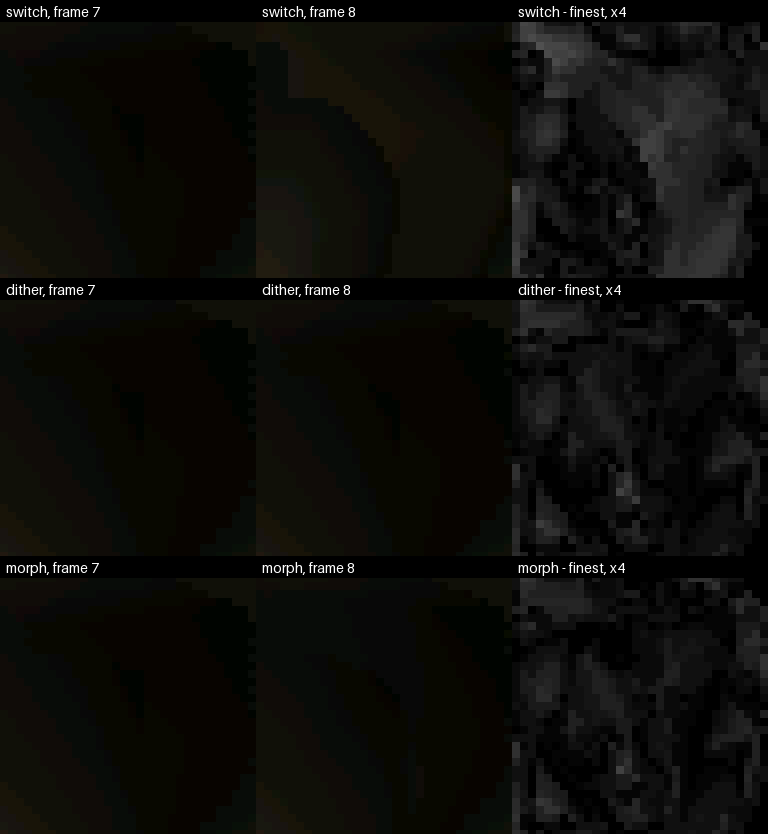
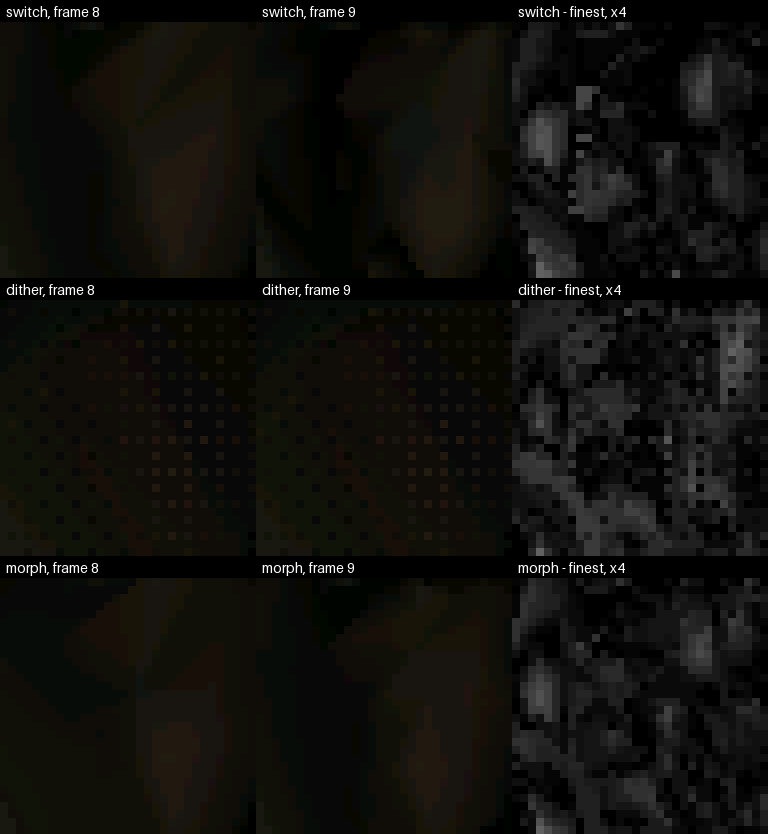
render: the meshlets view numbers a kept copy by its own clusters (autana-1mrt0) (#1508)
* render: the meshlets view numbers a kept copy by its own clusters, not the instance slot past the list (autana-1mrt0)

* render: attachment writers name their argument a drawn-list entry (autana-1mrt0 review)

* tools: the scene host programs build and run on the scene sources since #1448 and #1486: stub headers, the app heap entered, r3d_batch.c linked (autana-1mrt0)

skin_sheet.py and playback_figures.py build engine scene code on the host. Since #1448 that code includes esp_log.h and takes its blocks from the app heap, and since #1486 it calls r3d_batch.c; the doc-image refresh, their only caller, stopped at the first. scene_host.py now hands its users the flags its sources need, both hosts enter the app arena as render_host does, and test_scene_host.py builds and runs them in the tool tests.

* docs images: Doc Images makes the producers that need the bake cache too; the LOD blend clip and still redrawn on the re-keyed fits (autana-1mrt0)

lod_blend_pop.py needs host and bakes, and the refresh built only host producers, so its two images, committed before the #1493 rebake, were orphans. The CPU job already fetches bakes; it now builds them, and the clip and still are its render on the fits main locks (the worst pop moves from frame 7-8 to 8-9).

diff --git a/launcher/test/suites/suite_raster_attachment.c b/launcher/test/suites/suite_raster_attachment.c
@@ -493,6 +493,35 @@ test_copies_take_their_first_instance_and_each_shape_its_own_id(void) {
     free(raster.scratch);
 }
 
+/* A kept copy is entry instance_count onward of the drawn list, past the
+ * instances: its meshlets number by its own mesh's clusters. The slot past
+ * the instances holds another mesh, so reading it instead shows. */
+static void
+test_a_kept_copy_numbers_its_meshlets_by_its_own_clusters(void) {
+    static const r3d_lit_mesh_t placed = {.cluster_count = 2};
+    static const r3d_lit_mesh_t copied = {.cluster_count = 3};
+    static const r3d_lit_mesh_t past = {.cluster_count = 7};
+    const r3d_instance_t instances[] = {{.mesh = &placed}, {.mesh = &past}};
+    raster_t raster = {.instances = instances, .instance_count = 1};
+    raster.scratch =
+        malloc(raster_culled_bytes_of((raster_lengths_t){.copies = 1, .culled = raster_lengths(&raster).culled}));
+    TEST_ASSERT_NOT_NULL(raster.scratch);
+    raster_census_place(&raster)[0] = (r3d_batch_draw_t){.instance = {.mesh = &copied}};
+    raster_census_head(&raster)->copy_count = 1;
+    raster_meshlets_t state = {0};
+    const raster_attachment_t view = raster_meshlets_view(&state);
+    const render_view_t frame_view = render_view_fixture_at(&raster_rig_camera, (viewport_t){W, H, 0});
+    view.begin(&view, &raster, &frame_view);
+    const uint32_t expected[] = {1, 1 + placed.cluster_count};
+    for (int i = 0; i < raster_drawn_count(&raster); i++) {
+        r3d_span_writer_t out = {0};
+        TEST_ASSERT_TRUE(view.writer(&view, i, &out));
+        TEST_ASSERT_EQUAL_UINT32(expected[i], out.value);
+    }
+    TEST_ASSERT_EQUAL_UINT32(1 + placed.cluster_count + copied.cluster_count, state.next);
+    free(raster.scratch);
+}
+
 /* The wall alone covers the corner; the centre is covered by both quads, and
  * the card in front wins its test in either order, while the wall wins it
  * only when drawn first. */
@@ -1075,6 +1104,7 @@ run_raster_attachment_suite(void) {
     RUN_TEST(test_meshlet_ranges_restart_each_draw_and_show_empty_as_clear);
     RUN_TEST(test_copies_share_a_hue_and_a_shape_drawn_once_is_grey);
     RUN_TEST(test_copies_take_their_first_instance_and_each_shape_its_own_id);
+    RUN_TEST(test_a_kept_copy_numbers_its_meshlets_by_its_own_clusters);
     RUN_TEST(test_depth_and_tiles_rows_use_no_scratch);
     RUN_TEST(test_writer_slot_is_zeroed_before_each_hook);
     RUN_TEST(test_same_view_survives_frames_and_contexts_own_their_states);

diff --git a/launcher/tools/scene/scene_host.py b/launcher/tools/scene/scene_host.py
@@ -3,24 +3,35 @@ scene entry such a tool loads.
 
     from scene import scene_host
     sources = [my_host.c, *scene_host.SOURCES]
+    command = [cc, *firmware_includes, *scene_host.FLAGS, *sources]
 """
 
 import pathlib
+import sys
 from types import SimpleNamespace
 
 from r3d import scene_asset
 
+sys.path.insert(0, str(pathlib.Path(__file__).resolve().parents[1] / "device"))
+from device_profile import load, require  # noqa: E402
+
 TOOLS = pathlib.Path(__file__).resolve().parents[1]
 MAIN = TOOLS.parent / "main"
+TLSF = TOOLS.parents[1] / "third_party/tlsf"
 SOURCES = [pathlib.Path(__file__).with_name("scene_draw_stand_ins.c"), *[MAIN / name for name in (
     "anim/anim_track.c", "anim/anim_tracks.c", "anim/anim_binding.c", "anim/anim_skeleton.c",
     "anim/pose/anim_pose.c", "anim/playback/anim_playhead.c", "render/r3d_skin.c",
     "render/skin/r3d_skinning.c", "render/skin/r3d_skin_light.c", "render/r3d_lit_mesh.c", "asset/asset_pack.c",
     "asset/asset_file.c", "core/job.c", "core/pending.c", "anim/playback/anim_layer.c", "render/render_view.c",
-    "asset/asset_store.c", "asset/asset_store_async.c", "asset/asset_store_file.c")],
+    "asset/asset_store.c", "asset/asset_store_async.c", "asset/asset_store_file.c", "core/app_heap.c",
+    "app/app_arena.c", "render/batch/r3d_batch.c")],
     # Every scene source but the draw and the shell half, which the stand-ins replace.
     *sorted(path for path in (MAIN / "scene").rglob("*.c") if path.name not in ("scene_draw.c", "scene_shell.c")),
-    MAIN.parent / "packages/hash/src/name_hash.c"]
+    MAIN.parent / "packages/hash/src/name_hash.c", TLSF / "tlsf.c"]
+# What those sources need past the firmware's include roots: the host stand-ins for the IDF headers (esp_log.h among
+# them), the allocator app_heap.c builds on, and the board's PSRAM, which app_arena.c sizes the app region from.
+FLAGS = [*(flag for root in (MAIN.parent / "test/stubs", TLSF, TLSF / "include") for flag in ("-I", str(root))),
+         f"-DAPP_ARENA_HOST_PSRAM_BYTES={require(load(), 'DP_PSRAM_BYTES', int)}"]
 SCENE_ID = "scene"
 ENTITY_NAME = "subject"
 

diff --git a/launcher/tools/tests/test_scene_host.py b/launcher/tools/tests/test_scene_host.py
@@ -1,0 +1,38 @@
+"""The host programs built on scene/scene_host.py's sources: the skin figures' engine skinning (skin_frame.EngineSkin)
+builds and poses a rig, and the playback figures' probe builds. The doc-image refresh is their only other caller, so
+a scene source that needs a new file, header or app-heap entry fails here first."""
+
+import pathlib
+import sys
+import tempfile
+import unittest
+
+TOOLS = pathlib.Path(__file__).resolve().parents[1]
+sys.path.insert(0, str(TOOLS))
+sys.path.insert(0, str(TOOLS / "tests"))
+
+from anim.playback.playback_figures import PROBE_SOURCES  # noqa: E402
+from build.find_cc import host_cc  # noqa: E402
+from docs.figures import build_probe  # noqa: E402
+from r3d.skin.skin_frame import EngineSkin  # noqa: E402
+from scene import scene_host  # noqa: E402
+from skin_probe import POSITIONS, POSITION_SCALE, rig_glb  # noqa: E402
+
+
+@unittest.skipUnless(host_cc(), "needs a C compiler")
+class SceneHostPrograms(unittest.TestCase):
+    def test_engine_skin_poses_every_vertex_of_a_rig(self):
+        with tempfile.TemporaryDirectory() as directory:
+            work = pathlib.Path(directory)
+            model = work / "rig.glb"
+            model.write_bytes(rig_glb())
+            positions = EngineSkin(model, POSITION_SCALE, work).positions("move", 500, 4)
+        self.assertEqual(len(positions), len(POSITIONS))
+
+    def test_playback_probe_builds(self):
+        with tempfile.TemporaryDirectory() as directory:
+            build_probe(host_cc(), PROBE_SOURCES, directory, scene_host.FLAGS)  # raises when it does not
+
+
+if __name__ == "__main__":
+    unittest.main()

diff --git a/launcher/tools/anim/playback/playback_figures_probe.c b/launcher/tools/anim/playback/playback_figures_probe.c
@@ -17,6 +17,7 @@
 #include <stdlib.h>
 #include <string.h>
 
+#include "app/app_arena.h"
 #include "asset/asset_file.h"
 #include "math/linear/quatf.h"
 #include "math/scalar/math_const.h"
@@ -220,14 +221,21 @@ main(int argc, char** argv) {
     if (in == NULL || asset_file_open(argv[1], &pack, &buffer) != ASSET_OK) {
         return fail("cannot open the pack or the script");
     }
-    entity_t scene = scene_load_from(&pack, argv[2]);
-    if (scene_state(scene) != PENDING_READY) {
-        scene_release(scene);
-        return fail("the scene does not load");
+    /* The scene takes its blocks from the app heap, as on the board, where the shell enters it for each app visit. */
+    if (!app_arena_init()) {
+        return fail("the app region does not fit");
     }
-    const int status = play(in, entity_find(scene, name_hash(argv[3])), argv[4]);
+    app_arena_enter();
+    entity_t scene = scene_load_from(&pack, argv[2]);
+    int status;
+    if (scene_state(scene) != PENDING_READY) {
+        status = fail("the scene does not load");
+    } else {
+        status = play(in, entity_find(scene, name_hash(argv[3])), argv[4]);
+    }
     fclose(in);
     scene_release(scene);
+    app_arena_exit();
     asset_file_release(buffer);
     return status;
 }

diff --git a/launcher/tools/r3d/skin/skin_host.c b/launcher/tools/r3d/skin/skin_host.c
@@ -1,6 +1,7 @@
 /* Host bridge: scene entity APIs through the animation and skin systems, without drawing. */
 #include <stdio.h>
 #include <stdlib.h>
+#include "app/app_arena.h"
 #include "asset/asset_file.h"
 #include "scene/animator/animator.h"
 #include "scene/renderer/renderer.h"
@@ -41,12 +42,19 @@ main(int argc, char** argv) {
         fprintf(stderr, "skin_host PACK SCENE ENTITY SKELETON SKIN MESH CLIP TIME_MS\n");
         return EXIT_FAILURE;
     }
-    asset_pack_t pack;
-    void* buffer;
-    if (asset_file_open(argv[ARG_PACK], &pack, &buffer) != ASSET_OK) {
+    /* The scene takes its blocks from the app heap, as on the board, where the shell enters it for each app visit. */
+    if (!app_arena_init()) {
+        fprintf(stderr, "skin_host: the app region does not fit\n");
         return EXIT_FAILURE;
     }
-    const bool ok = sample(&pack, argv);
-    asset_file_release(buffer);
+    app_arena_enter();
+    asset_pack_t pack;
+    void* buffer;
+    bool ok = asset_file_open(argv[ARG_PACK], &pack, &buffer) == ASSET_OK;
+    if (ok) {
+        ok = sample(&pack, argv);
+        asset_file_release(buffer);
+    }
+    app_arena_exit();
     return ok ? EXIT_SUCCESS : EXIT_FAILURE;
 }

diff --git a/launcher/main/render/raster_attachment.h b/launcher/main/render/raster_attachment.h
@@ -19,9 +19,10 @@ struct raster_attachment {
     /* Optional. Once per raster_draw(), before the first instance. */
     void (*begin)(const raster_attachment_t* self, const raster_t* raster, const render_view_t* view);
     /* Optional. Chooses `out->span`, `out->value` and `out->step` for
-     * this instance, or returns false to leave this attachment unwritten.
-     * Called once per instance in order, drawn or not, so it may count. */
-    bool (*writer)(const raster_attachment_t* self, int instance, r3d_span_writer_t* out);
+     * drawn-list entry `entry` (raster_drawn_at(): the instances, then
+     * kept copies), or returns false to leave this attachment unwritten.
+     * Called once per entry in order, drawn or not, so it may count. */
+    bool (*writer)(const raster_attachment_t* self, int entry, r3d_span_writer_t* out);
     /* Optional. Development builds: paints `picture`'s colour from this
      * attachment. */
     void (*show)(const raster_attachment_t* self, const raster_t* raster, const gfx_target_t* picture, int index);

diff --git a/launcher/tools/docs/figures.py b/launcher/tools/docs/figures.py
@@ -29,10 +29,11 @@ from render.check_avi import read_video  # noqa: E402
 PROBE_SUPPORT = (ROOT / "launcher/packages/math/src/text/math_text.c",)
 
 
-def build_probe(cc, sources, directory):
-    """Build a probe against the library into directory; returns the program."""
+def build_probe(cc, sources, directory, extra_flags=()):
+    """Build a probe against the library into directory, with `extra_flags` after the firmware's include roots;
+    returns the program."""
     binary = pathlib.Path(directory) / "probe"
-    flags = [f"-std={PROBE_STANDARD}", *(flag for root in include_roots() for flag in ("-I", str(root)))]
+    flags = [f"-std={PROBE_STANDARD}", *(flag for root in include_roots() for flag in ("-I", str(root))), *extra_flags]
     sources = [str(source) for source in (*sources, *PROBE_SUPPORT)]
     if os.environ.get(DEPENDS_FOLDER):
         for source in sources:

diff --git a/launcher/main/render/view/raster_copies.c b/launcher/main/render/view/raster_copies.c
@@ -32,10 +32,10 @@ begin(const raster_attachment_t* self, const raster_t* raster, const render_view
 /* A copied shape takes its first instance's index plus one, the id the boxes
  * view hues by; 0 stays empty. */
 static bool
-writer(const raster_attachment_t* self, int instance, r3d_span_writer_t* out) {
+writer(const raster_attachment_t* self, int entry, r3d_span_writer_t* out) {
     const raster_copies_t* state = self->state;
     int copies;
-    const int shape = raster_copies_shape(state->raster, instance, &copies);
+    const int shape = raster_copies_shape(state->raster, entry, &copies);
     const uint32_t id = copies >= RASTER_COPIES_SHARED ? 1U + (uint32_t)shape : RASTER_COPIES_UNIQUE;
     *out = (r3d_span_writer_t){.span = raster_attachment_tag, .step = R3D_SPAN_STEP_NONE, .value = id};
     return true;

diff --git a/launcher/main/render/view/raster_cull_view.c b/launcher/main/render/view/raster_cull_view.c
@@ -139,11 +139,11 @@ begin(const raster_attachment_t* self, const raster_t* raster, const render_view
 }
 
 /* The camera's draw tags each pixel with its triangle, a spectator's with
- * its cluster; both count from 1 across the instances. */
+ * its cluster; both count from 1 across the drawn list. */
 static bool
-writer(const raster_attachment_t* self, int instance, r3d_span_writer_t* out) {
+writer(const raster_attachment_t* self, int entry, r3d_span_writer_t* out) {
     raster_cull_t* s = self->state;
-    const r3d_lit_mesh_t* mesh = raster_drawn_at(s->raster, instance)->mesh;
+    const r3d_lit_mesh_t* mesh = raster_drawn_at(s->raster, entry)->mesh;
     *out = (r3d_span_writer_t){.span = raster_attachment_tag};
     if (s->spectating) {
         out->step = R3D_SPAN_STEP_CLUSTER;

diff --git a/launcher/main/render/view/raster_meshlets.c b/launcher/main/render/view/raster_meshlets.c
@@ -17,9 +17,9 @@ begin(const raster_attachment_t* self, const raster_t* raster, const render_view
 }
 
 static bool
-writer(const raster_attachment_t* self, int instance, r3d_span_writer_t* out) {
+writer(const raster_attachment_t* self, int entry, r3d_span_writer_t* out) {
     raster_meshlets_t* state = self->state;
-    const uint32_t clusters = (uint32_t)state->raster->instances[instance].mesh->cluster_count;
+    const uint32_t clusters = (uint32_t)raster_drawn_at(state->raster, entry)->mesh->cluster_count;
     assert(state->next > 0 && state->next + clusters <= (uint32_t)UINT16_MAX + 1);
     *out = (r3d_span_writer_t){.span = raster_attachment_tag, .step = R3D_SPAN_STEP_CLUSTER, .value = state->next};
     state->next += clusters;

diff --git a/launcher/tools/scene/scene_draw_stand_ins.c b/launcher/tools/scene/scene_draw_stand_ins.c
@@ -5,7 +5,10 @@
  * The render context scene.c lends its scratch to is stood in for the same reason: without drawing there is no
  * context, so scene.c's calls on it have nothing to set or drop.
  */
+#include <stdlib.h>
+
 #include "render/context/render_context.h"
+#include "render/r3d_pipeline.h"
 #include "scene/scene_internal.h"
 
 render_context_t*
@@ -46,3 +49,12 @@ scene_draw_activate(scene_t* scene, int camera) {
 
 void
 camera_deactivate(void) {}
+
+/* Called only by r3d_batch.c's drawing half, linked for the bounds the scene reads; nothing draws here. */
+void
+r3d_lens_place(r3d_lens_t* lens, const mat4f_t* model, int position_scale) {
+    (void)lens;
+    (void)model;
+    (void)position_scale;
+    abort();
+}

diff --git a/launcher/tools/r3d/skin/skin_frame.py b/launcher/tools/r3d/skin/skin_frame.py
@@ -39,7 +39,7 @@ SOURCES = [pathlib.Path(__file__).with_name("skin_host.c"), *scene_host.SOURCES]
 
 def program(directory):
     target = directory / ("skin_host.exe" if sys.platform == "win32" else "skin_host")
-    includes = [arg for root in packages.include_roots() for arg in ("-I", str(root))]
+    includes = [*(arg for root in packages.include_roots() for arg in ("-I", str(root))), *scene_host.FLAGS]
     subprocess.run([track_host.compiler(), "-std=c11", "-O2", "-Wall", "-Wextra", "-Werror",
                     "-Werror=double-promotion", "-ffp-contract=off", "-ffunction-sections", "-fdata-sections", "-Wl,--gc-sections", *includes, *map(str, SOURCES),
                     "-lm", "-o", str(target)], check=True)
